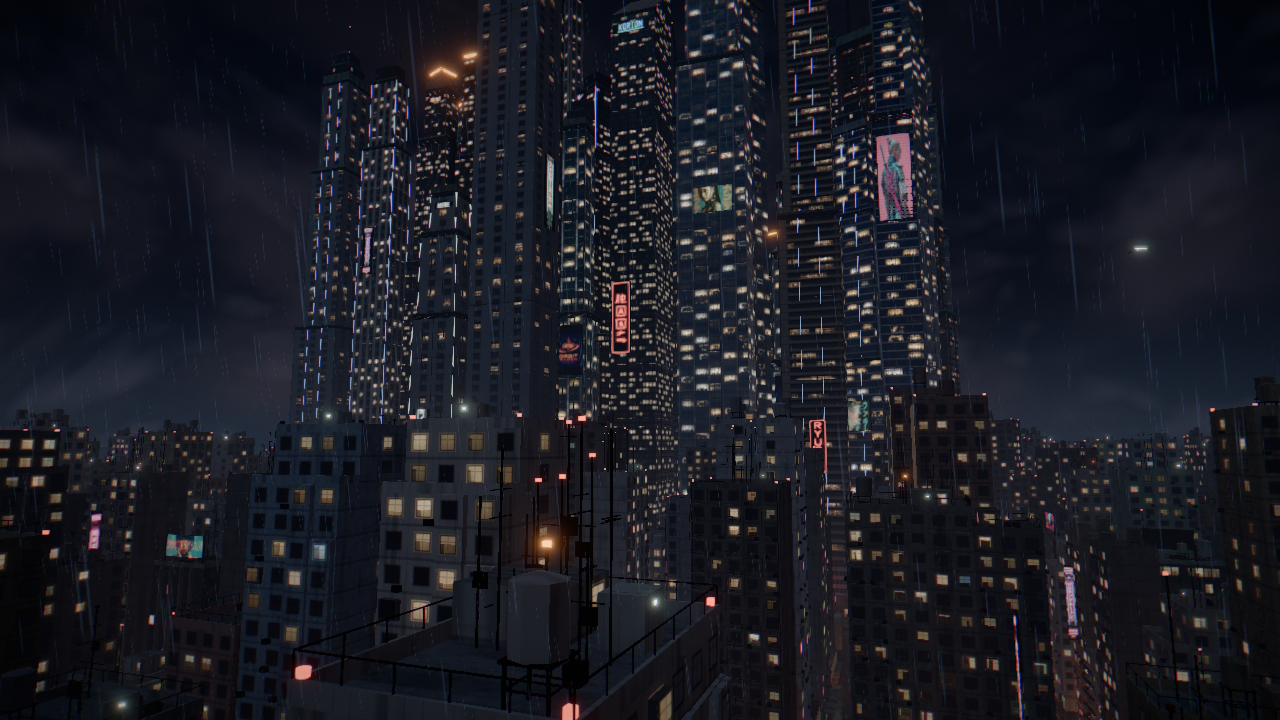
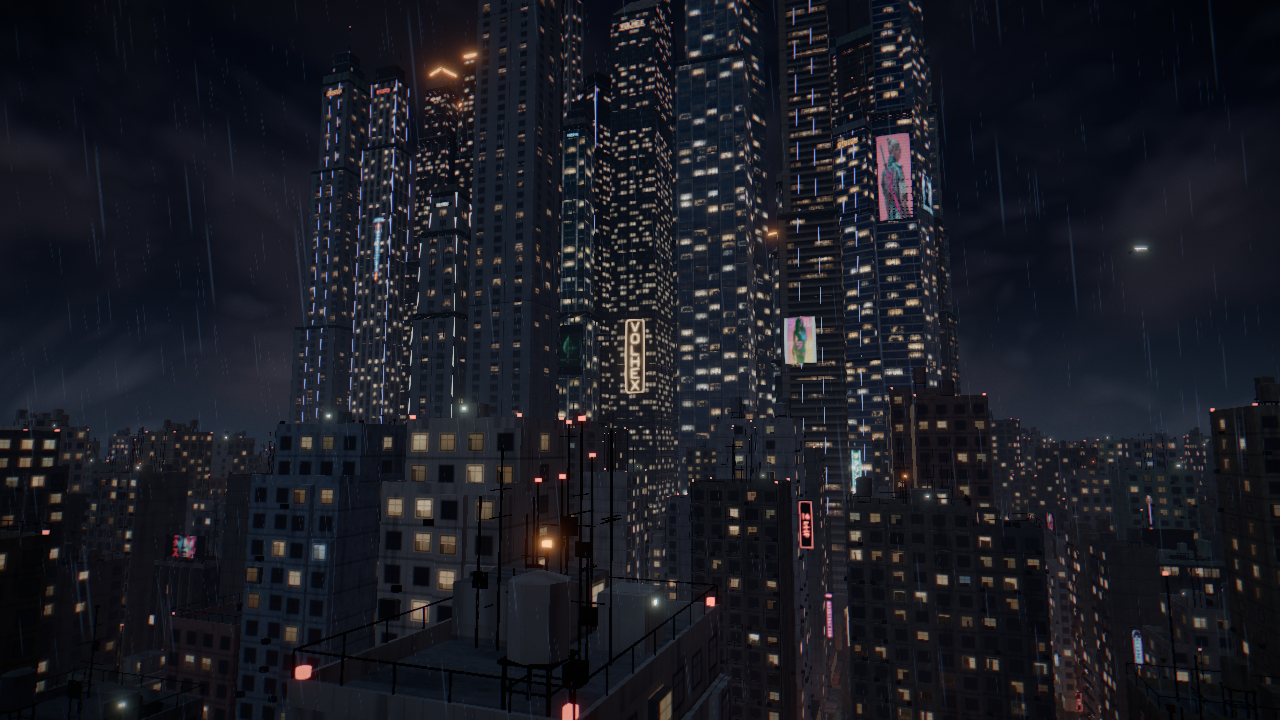
Docs: sign aspect system, holograms, drop-folder workflow

diff --git a/docs/NOTES.md b/docs/NOTES.md
@@ -469,3 +469,20 @@ bridges, LOD). This last stretch adds:
   the weakest element. `NOVA` repeated until picks were usage-balanced. Posters on towers
   read from `skyline`; crown wordmarks are small at that distance. More warm art would help
   (prompts in docs/SIGN-PROMPTS.md).
+
+### Human review: cropped and stretched signs; want transparent holographic neon (2026-09-27)
+- Cause: the layout fixed sign sizes before the runtime picked an image, which was then
+  cover-cropped (cut signs) or, on tower screens, stretched (screens were wider than 2:3).
+- Fix (aspect system): the importer records each image's exact aspect and packs it
+  uncropped into the atlas whose slot shape fits (any aspect accepted; new drop folders
+  signs-src/neon and signs-src/ads). The layout receives the art catalog, chooses artwork per
+  placement from images whose aspect suits it, and sizes the sign to that aspect within the
+  placement's limits; stroke designs are sized to their slot aspect too. Screens are built at
+  exactly 2:3. Test: every sign's w/h matches its artwork within 2%.
+- Holograms: neon (all) and dark-background ads render as additive planes: black is
+  transparent, scan lines, slow shimmer, rare horizontal tear; fog fades rather than tints
+  them. Bright photo posters stay opaque boards.
+- Critique: canyon neon now reads as floating light, uncropped; tower posters and strips keep
+  their proportions. Street signs are slimmer than before (true 1:4); color density in the
+  canyon is a bit lower than the old stretched boxes. Shader programs 24/25: the hologram
+  material costs one; the budget is now effectively full.

diff --git a/docs/SIGN-PROMPTS.md b/docs/SIGN-PROMPTS.md
@@ -1,8 +1,17 @@
 # Midjourney prompts for signs and ads
 
+## How to add artwork (any aspect ratio)
+1. Drop images into `art/external/textures/signs-src/neon/` (signs: shown as holograms, black
+   background = transparent) or `art/external/textures/signs-src/ads/` (billboards, screens;
+   dark-background ads also render as holograms, bright photo posters as opaque boards).
+2. Run `python3 tools/textures/import_ads.py`, then `npm run layouts`.
+Any aspect works. The layout places each image where its shape fits (tall ≤ 0.8: blades and
+tower strips; wide ≥ 2: arms, shop panels; 0.5–2.2: tower billboards; 1.1–3.5: rooftop
+frames) and sizes the sign to that exact aspect, never cropping or stretching. Portrait ads
+also feed the 2:3 tower screens. Near-black backgrounds work best (they become transparent).
+
 What the city needs most (the current set skews cyan/magenta; the style bible wants warm
-practical light with neon as an accent). Drop results into `art/external/textures/small-ads/`
-(same folders by aspect) or `ads-v2/`, then run `python3 tools/textures/import_ads.py`.
+practical light with neon as an accent).
 
 Keep for every image: near-black background, no real brands or logos, no frame or mockup,
 no people's real names. Invented text is fine (Midjourney's gibberish reads as signage).

diff --git a/docs/DECISIONS.md b/docs/DECISIONS.md
@@ -106,3 +106,6 @@ One line per decision: `YYYY-MM-DD | area | decision | reason`.
 2026-09-27 | signs | Artwork picks weighted 3:1 toward warm hues and divided by prior use | The provided set skews cyan/magenta; style bible wants neon as accent over warm practical light.
 2026-09-27 | signs | Pictorial neon icons and tower brand logo families (crown wordmark + stacked logo), ported as ideas from the human's future-cityscape project onto our stroke glyphs | Stroke glyphs avoid system fonts, keeping screenshots machine-independent.
 2026-09-27 | signs | Screens show the portrait poster/ad atlas; the drawn poster generator is retired | Human-provided artwork replaces placeholders.
+2026-09-27 | signs | The layout chooses sign artwork and sizes each sign to its aspect (art catalog passed like the asset catalog) | Runtime picking forced a fixed size onto arbitrary images: cropped or stretched signs.
+2026-09-27 | signs | Neon and dark-background ads render as additive holograms (separate InstancedMesh, fog fades instead of tints) | Human request; additive makes black transparent without alpha mattes. Costs one shader program (24/25).
+2026-09-27 | screens | Tower screens generated at exactly 2:3; portrait ads letterboxed into 2:3 slots | Screens were wider than the ads and stretched them.
